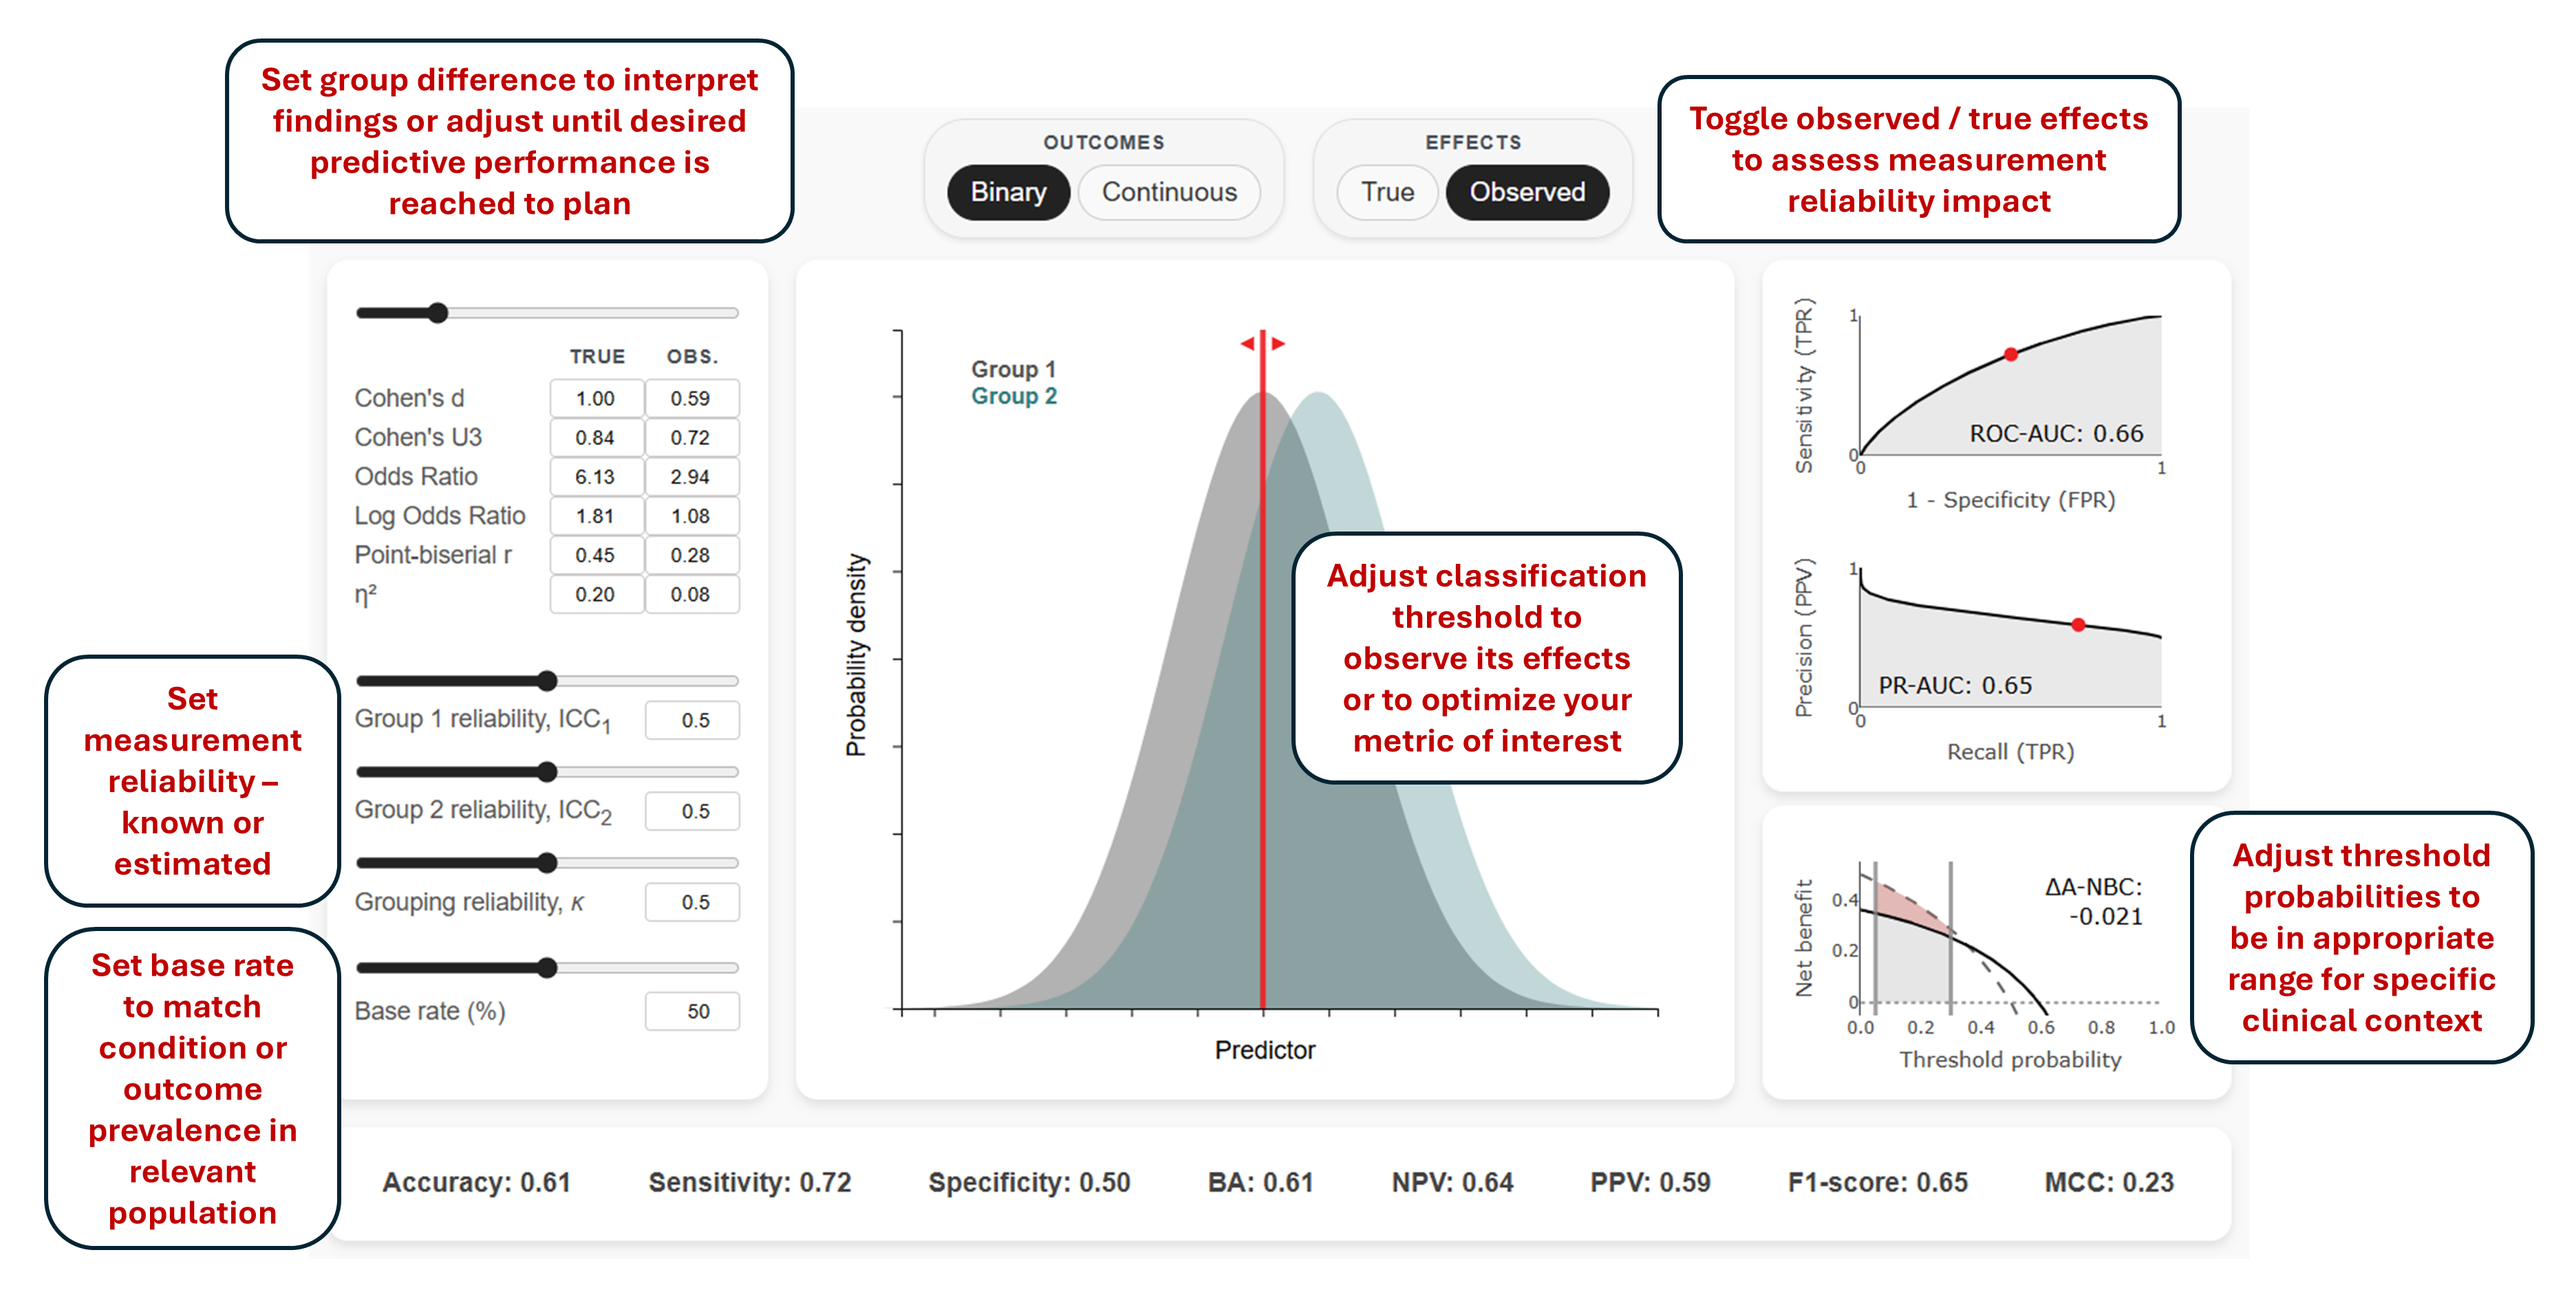
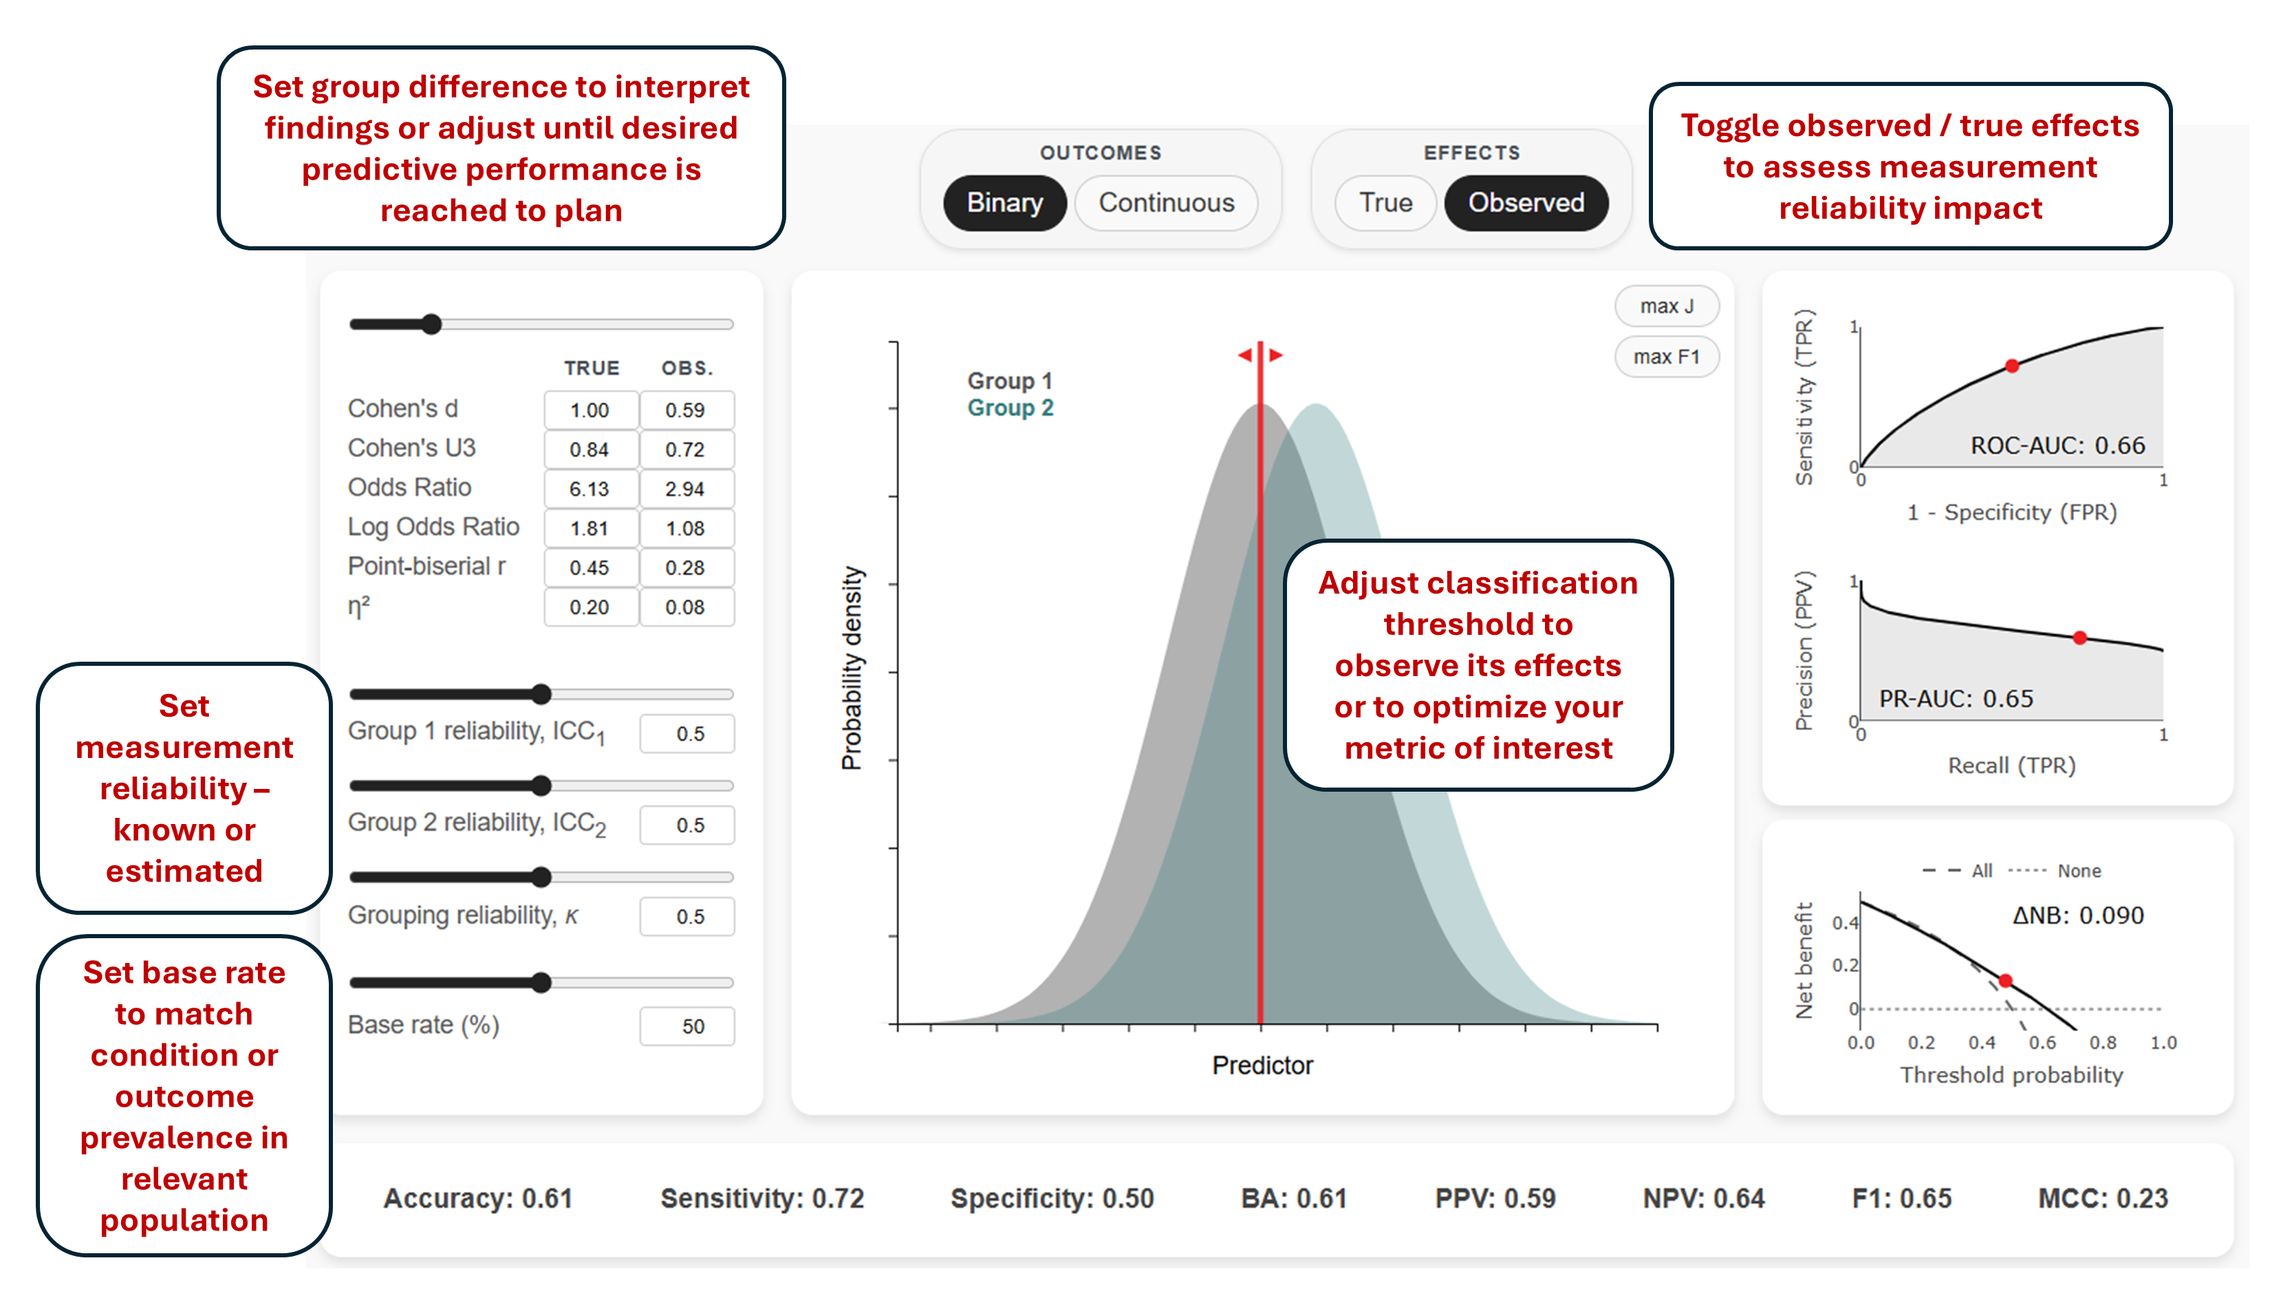
fixed dca even more; updated instructions too

diff --git a/get-started.html b/get-started.html
@@ -213,7 +213,7 @@
         <p>Where P is Precision (PPV) and R is Recall (Sensitivity). These integrals are computed using trapezoidal numerical integration.</p>
         
         <h3 id="dca-analysis">Decision Curve Analysis (DCA)</h3>
-        <p>Decision Curve Analysis (<a href="https://pubmed.ncbi.nlm.nih.gov/17099194/" target="_blank">Vickers & Elkin, 2006</a>) evaluates the clinical utility of a predictive model or a single predictor by plotting net benefit across different threshold probabilities. Unlike ROC and PR curves that focus on discrimination, DCA incorporates the relative costs of false positives and false negatives, helping determine whether using a prediction model to guide treatment decisions provides more benefit than simple strategies.</p>
+        <p>Decision Curve Analysis (<a href="https://pubmed.ncbi.nlm.nih.gov/17099194/" target="_blank">Vickers & Elkin, 2006</a>) evaluates the utility of a predictive model or a single predictor by plotting net benefit across different threshold probabilities. Unlike ROC and PR curves that focus on discrimination, DCA incorporates the relative costs of false positives and false negatives, helping determine whether using a prediction model to guide decisions provides more benefit than simple strategies.</p>
         
         <div id="dca-diagram" style="float: right; margin: 0 0 20px 20px;">
             <img src="images/dca.png" alt="Decision Curve Analysis example showing net benefit curves and shaded areas representing different strategies" class="screenshot" style="max-width: 400px; width: 400px;">
@@ -221,40 +221,35 @@
         
         <p>A DCA plot typically includes three key curves:</p>
         <ul>
-            <li><strong>Predictor Curve</strong>: Shows the net benefit of using the predictor at different threshold probabilities. The curve's height indicates how much benefit the predictor provides compared to treating no one.</li>
-            <li><strong>Treat All</strong>: Represents the strategy of treating everyone regardless of their predicted risk. This strategy maximizes sensitivity (no false negatives) but results in many unnecessary treatments (false positives).</li>
-            <li><strong>Treat None</strong>: Represents the strategy of treating no one, which always yields zero net benefit but avoids all treatment-related harms.</li>
+            <li><strong>Model</strong>: Shows the net benefit of using the model (or a single predictor) at different threshold probabilities. </li>
+            <li><strong>All</strong>: Represents the strategy of intervening for everyone regardless of their predicted risk. This strategy maximizes sensitivity (no false negatives) but results in many unnecessary interventions (false positives).</li>
+            <li><strong>None</strong>: Represents the strategy of intervening for no one, which always yields zero net benefit but avoids all intervention-related harms.</li>
         </ul>
         
         <p>The <strong>net benefit</strong> formula accounts for both the benefits of true positives and the costs of false positives:</p>
         <div style="text-align: center; margin: 15px 0;">
             \[NB = \frac{TP}{N_{total}} - \frac{FP}{N_{total}} \times \frac{p_t}{1-p_t}\]
         </div>
-        <p>Where N<sub>total</sub> is the total sample size, and p<sub>t</sub> is the threshold probability, representing the odds at which a patient would be willing to accept treatment. In practical terms, p<sub>t</sub> reflects how many unnecessary interventions one is willing to accept to prevent one adverse outcome. The ratio p<sub>t</sub>/(1-p<sub>t</sub>) in the net benefit formula captures the relative weighting of false positives compared to true positives. p<sub>t</sub> itself can be calculated as:</p>
+        <p>Where N<sub>total</sub> is the total sample size, and p<sub>t</sub> is the threshold probability, representing the odds at which one would be willing to accept an intervention. In practical terms, p<sub>t</sub> reflects how many unnecessary interventions one is willing to accept to prevent one adverse outcome. The ratio p<sub>t</sub>/(1-p<sub>t</sub>) in the net benefit formula captures the relative weighting of false positives compared to true positives. p<sub>t</sub> itself can be calculated as:</p>
 
         <div style="text-align: center; margin: 15px 0;">
             \[p_t = \frac{C_{FP}}{C_{FP} + C_{FN}}\]
         </div>
-        <p>Where C<sub>FP</sub> is the cost of a false positive (unnecessary treatment) and C<sub>FN</sub> is the cost of a false negative (missed case). p<sub>t</sub> can also be estimated through clinician surveys, patient preferences, or clinical guidelines. The simulator allows you to explore a range of p<sub>t</sub> values to identify when your predictor provides meaningful clinical benefit.</p>
+
+        <p>Where C<sub>FP</sub> is the cost of a false positive (unnecessary intervention) and C<sub>FN</sub> is the cost of a false negative (missed positive case). p<sub>t</sub> can also be estimated through expert surveys, stakeholder preferences, or established guidelines.</p>
         
-        <p><strong>ΔNB (Delta Net Benefit)</strong> represents the additional clinical utility that a predictive model provides compared to the best available simple strategy (either treating all patients or treating none) at a specific threshold probability. Rather than comparing only against treating no one, ΔNB is calculated as:</p>
+        <p>What we often want to know is not the absolute NB, but added value. <strong>ΔNB (Delta Net Benefit)</strong> measures this additional utility by comparing the model against the better of the two simple strategies (either All or None) at a specific threshold probability:</p>
         <div style="text-align: center; margin: 15px 0;">
-            \[\Delta NB = NB_{\text{model}} - \max(NB_{\text{treat all}}, NB_{\text{treat none}})\]
+            \[\Delta NB = NB_{\text{model}} - \max(NB_{\text{All}}, NB_{\text{None}})\]
         </div>
-        <p>At each threshold probability, the model's net benefit is compared against whichever simple strategy performs better at that threshold. This provides a more conservative and clinically meaningful assessment of the model's added value. A positive ΔNB indicates that the predictive model offers genuine improvement over the best simple strategy, while values near zero suggest that simple strategies may be equally effective.</p>
-        
-        <p><strong>NR₁₀₀ (Net Reduction per 100)</strong> translates the net benefit into more intuitive intervention units, representing the net reduction in interventions per 100 patients when using the predictor compared to the best simple strategy:</p>
-        <div style="text-align: center; margin: 15px 0;">
-            \[NR_{100} = \Delta NB \times \frac{1-p_t}{p_t} \times 100\]
-        </div>
-        <p>This metric helps clinicians understand the practical impact of using a prediction model. For example, if NR₁₀₀ = 5.2, it means that using the predictor would result in a net reduction of 5.2 interventions per 100 patients compared to the best simple strategy (treat all or treat none).</p>
-        
+        <p>At each threshold probability, the model's net benefit is compared against whichever simple strategy performs better at that threshold. This provides a more conservative and meaningful assessment of the model's added value. A positive ΔNB indicates that the predictive model offers genuine improvement over the best simple strategy, while values near zero suggest that simple strategies may be equally effective.</p>
+
         <p>DCA is particularly valuable because it:</p>
         <ul>
-            <li>Incorporates clinical context through threshold probabilities that reflect real decision-making scenarios</li>
+            <li>Incorporates the decision-making context through threshold probabilities that reflect real-world scenarios</li>
             <li>Accounts for the relative costs of different types of errors (false positives vs. false negatives)</li>
-            <li>Provides actionable insights about when a model should or should not be used clinically</li>
-            <li>Facilitates comparison between different models or strategies across various clinical contexts</li>
+            <li>Provides actionable insights about when a model should or should not be used</li>
+            <li>Facilitates comparison between different models or strategies across various contexts</li>
         </ul>
 
         <p>For more information about DCA, visit <a href="https://mskcc-epi-bio.github.io/decisioncurveanalysis" target="_blank">https://mskcc-epi-bio.github.io/decisioncurveanalysis</a>.</p>

diff --git a/js/dca.js b/js/dca.js
@@ -140,7 +140,6 @@ const DCAModule = {
             
             // Calculate Delta NB and NR_100 at current threshold position
             let currentDeltaNB = 0;
-            let currentNR100 = 0;
             let formattedDeltaNB = "0.000";
             
             if (data.currentThreshold !== undefined && data.currentMetrics !== undefined) {
@@ -166,16 +165,6 @@ const DCAModule = {
                 }
                 
                 currentDeltaNB = deltaNB[closestIndex];
-                // NR_100 = Delta NB * (1-t)/t * 100 (net reduction per 100 patients)
-                const thresholdProb = thresholdProbs[closestIndex];
-                currentNR100 = currentDeltaNB * ((1 - thresholdProb) / thresholdProb) * 100;
-            } else {
-                // Fallback to maximum values if no current threshold
-                currentDeltaNB = Math.max(...deltaNB);
-                // Find the threshold probability corresponding to max Delta NB
-                const maxIndex = deltaNB.indexOf(currentDeltaNB);
-                const thresholdProb = thresholdProbs[maxIndex];
-                currentNR100 = currentDeltaNB * ((1 - thresholdProb) / thresholdProb) * 100;
             }
             
             // Format Delta NB for display
@@ -280,7 +269,7 @@ const DCAModule = {
                     y: 0.95,
                     xref: "paper",
                     yref: "paper",
-                    text: `ΔNB: ${formattedDeltaNB}<br>NR<sub>100</sub>: ${currentNR100.toFixed(1)}`,
+                    text: `ΔNB: ${formattedDeltaNB}`,
                     showarrow: false,
                     font: { size: 16, color: "black", weight: "bold" },
                     align: "right",
